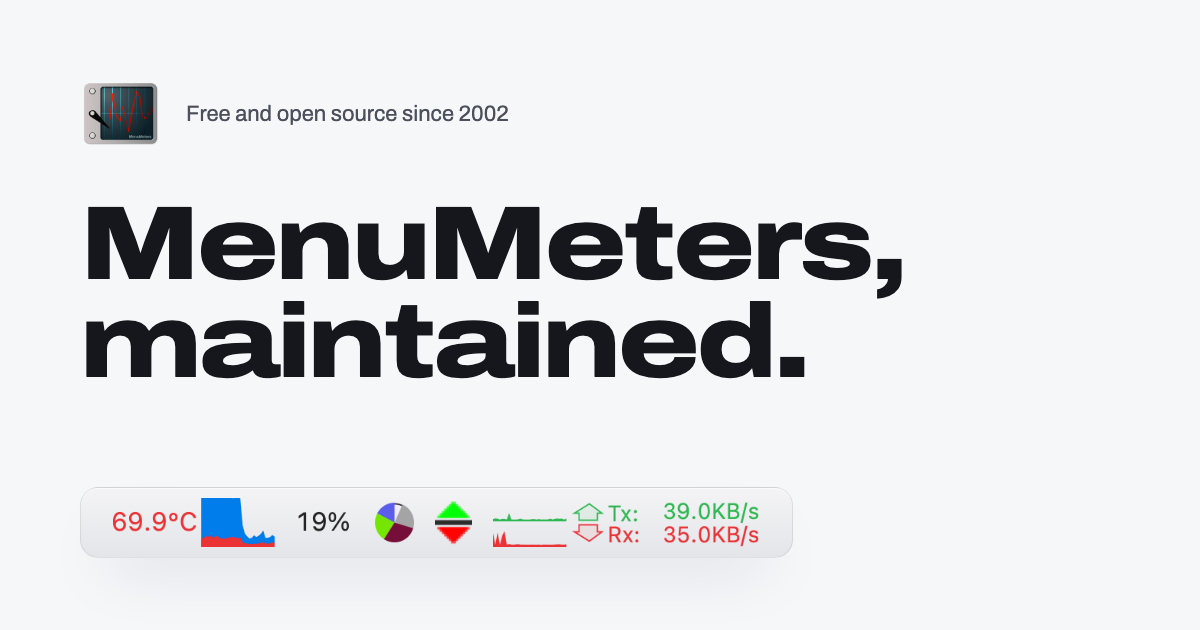
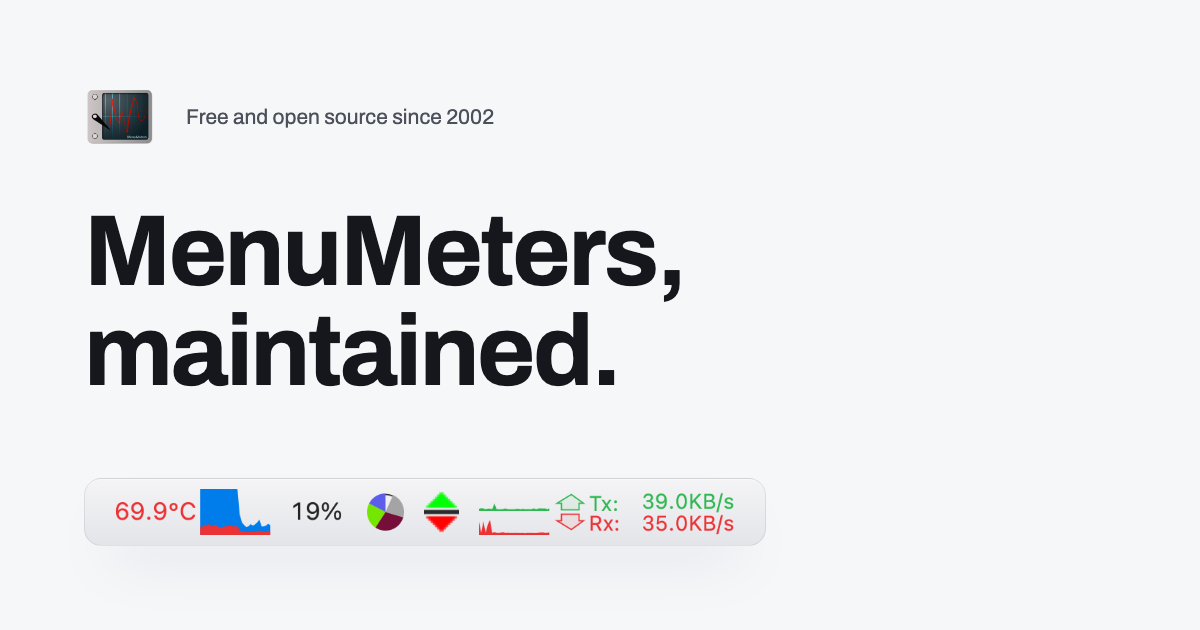
Calmer headings, and sign as NERv
Headings are set at the font's normal width, lighter and smaller.
The page no longer names the company behind the Developer ID or the
maintainer's legal name.

Changed region(s): [[0.0617, 0.3317, 0.7708, 0.6333], [0.0925, 0.754, 0.6475, 0.8746], [0.0617, 0.1206, 0.4317, 0.2413]]

diff --git a/index.html b/index.html
@@ -33,7 +33,7 @@
   "author": [
     { "@type": "Person", "name": "Alex Harper" },
     { "@type": "Person", "name": "Yuji Tachikawa" },
-    { "@type": "Person", "name": "Luca Gibelli" }
+    { "@type": "Person", "name": "NERv" }
   ]
 }
 </script>
@@ -72,7 +72,7 @@
       <a class="button" href="https://github.com/menumeters-osx/MenuMeters/releases/latest/download/MenuMeters-latest.dmg">Download MenuMeters 3.1.0</a>
       <a class="button button-quiet" href="https://github.com/menumeters-osx/MenuMeters">Source on GitHub</a>
     </div>
-    <p class="fineprint">Free. For macOS 26 Tahoe and later, on Apple silicon and Intel Macs. A 2.7&nbsp;MB disk image, signed by Stardata s.r.l. and notarized by Apple. Using an older macOS? <a href="#older-macos">Here’s what to get.</a></p>
+    <p class="fineprint">Free. For macOS 26 Tahoe and later, on Apple silicon and Intel Macs. A 2.7&nbsp;MB disk image, signed with a Developer ID and notarized by Apple. Using an older macOS? <a href="#older-macos">Here’s what to get.</a></p>
   </div>
 
   <figure class="loupe">
@@ -239,7 +239,7 @@
       <p>Like a lot of people, I kept MenuMeters running by hopping from fork to fork. A new macOS would come out, something would break, and the search would start again. Which fork builds? Which one has the patch for this release? Is the disk image on that page signed by anyone at all? The fixes were out there, but scattered across hundreds of repositories, in pull requests that waited for years.</p>
       <p>None of that is anyone’s fault, and I want to be clear about it. Alex Harper wrote MenuMeters and gave it away. Yuji Tachikawa kept it alive for more than a decade, in their own free time, for nothing. gonejack rewrote the whole thing in Swift. Dozens of people sent patches. I’m grateful to every one of them. Free time runs out, and nobody owes anyone a release.</p>
       <p>Still, an app this many people rely on deserves better care than that. So I’m putting my time where my mouth is: MenuMeters now has one home, one download, signed updates, and a maintainer who has signed up for the job.</p>
-      <p class="signature"><a href="https://github.com/lgibelli">Luca Gibelli</a><br>Maintainer</p>
+      <p class="signature"><strong>NERv</strong><br>Maintainer</p>
     </div>
   </div>
 </section>
@@ -274,7 +274,7 @@
     <div>
       <h2 id="trust-title">What’s in the box, and what isn’t</h2>
       <ul class="facts">
-        <li><strong>Signed and notarized.</strong> Every release is signed with the Developer ID of Stardata s.r.l. (team T4552AW4A5), runs with the hardened runtime, and is notarized by Apple.</li>
+        <li><strong>Signed and notarized.</strong> Every release is signed with the same Apple Developer ID (team T4552AW4A5), runs with the hardened runtime, and is notarized by Apple.</li>
         <li><strong>Signed updates.</strong> MenuMeters checks for updates once a day, using <a href="https://sparkle-project.org">Sparkle</a>, and asks before installing. It accepts an update only if the download is signed with the project’s update key and the app inside is signed by the same developer team.</li>
         <li><strong>Nothing about you leaves your Mac.</strong> The daily check downloads a small feed from salamacchine.it and sends only the app’s version, as <code>MenuMeters/3.1.0 Sparkle/2.10.1</code>. You can turn the check off in the About tab.</li>
         <li><strong>Open to inspection.</strong> All of the source is on GitHub, and the release build needs nothing but Apple’s Command Line Tools.</li>
@@ -364,7 +364,7 @@ spctl --assess --verbose \
 
 <footer class="footer">
   <div class="wrap footer-grid">
-    <p>MenuMeters is free software, released under the <a href="https://github.com/menumeters-osx/MenuMeters/blob/main/LICENSE">GNU General Public License, version 2</a>. Maintained by <a href="https://github.com/lgibelli">Luca Gibelli</a>.</p>
+    <p>MenuMeters is free software, released under the <a href="https://github.com/menumeters-osx/MenuMeters/blob/main/LICENSE">GNU General Public License, version 2</a>. Maintained by NERv.</p>
     <p>Not affiliated with Apple. macOS is a trademark of Apple Inc.</p>
     <nav class="footer-links" aria-label="Project">
       <a href="https://github.com/menumeters-osx/MenuMeters">Source</a>

diff --git a/assets/css/site.css b/assets/css/site.css
@@ -133,17 +133,15 @@ h1, h2, h3 {
 }
 
 h2 {
-  font-size: clamp(30px, 4.2vw, 46px);
-  font-stretch: 118%;
-  font-weight: 750;
-  line-height: 1.06;
+  font-size: clamp(28px, 3.4vw, 38px);
+  font-weight: 680;
+  line-height: 1.12;
   letter-spacing: -0.015em;
 }
 
 h3 {
   font-size: 22px;
-  font-stretch: 108%;
-  font-weight: 680;
+  font-weight: 640;
   line-height: 1.25;
 }
 
@@ -229,12 +227,11 @@ p { margin: 0 0 1em; }
 }
 
 .hero h1 {
-  font-size: clamp(46px, 8.4vw, 112px);
-  font-stretch: 125%;
-  font-weight: 820;
-  line-height: 0.94;
-  letter-spacing: -0.03em;
-  max-width: 11em;
+  font-size: clamp(40px, 6vw, 76px);
+  font-weight: 700;
+  line-height: 1.02;
+  letter-spacing: -0.025em;
+  max-width: 12em;
 }
 
 .lead {
@@ -326,7 +323,7 @@ p { margin: 0 0 1em; }
   border-top: 1px solid var(--rule);
   padding-top: 28px;
 }
-.meter h3 { font-size: 28px; font-stretch: 120%; font-weight: 760; }
+.meter h3 { font-size: 26px; font-weight: 680; }
 .meter > p { margin: 12px 0 28px; color: var(--ink-2); max-width: 32em; }
 
 .variants {
@@ -426,9 +423,8 @@ p { margin: 0 0 1em; }
 .timeline .when {
   margin: 0;
   padding-top: 2px;
-  font-size: 26px;
-  font-stretch: 125%;
-  font-weight: 760;
+  font-size: 24px;
+  font-weight: 680;
   color: var(--ink-3);
   font-variant-numeric: tabular-nums;
   text-align: right;
@@ -497,14 +493,11 @@ p { margin: 0 0 1em; }
   line-height: 1.4;
   color: var(--ink-3);
 }
-.letter-body .signature a {
+.letter-body .signature strong {
   font-size: 22px;
-  font-weight: 680;
-  font-stretch: 110%;
+  font-weight: 650;
   color: var(--ink);
-  text-decoration: none;
 }
-.letter-body .signature a:hover { text-decoration: underline; }
 
 /* The promise */
 
@@ -518,9 +511,8 @@ p { margin: 0 0 1em; }
 
 .promises > div { border-top: 2px solid var(--ink); padding-top: 22px; }
 .promises dt {
-  font-size: clamp(22px, 2.4vw, 27px);
-  font-stretch: 115%;
-  font-weight: 740;
+  font-size: clamp(21px, 2.2vw, 25px);
+  font-weight: 660;
   line-height: 1.2;
   text-wrap: balance;
 }
@@ -615,9 +607,8 @@ pre code { font-size: inherit; }
 }
 .steps li::before {
   content: counter(step);
-  font-size: 30px;
-  font-stretch: 125%;
-  font-weight: 780;
+  font-size: 28px;
+  font-weight: 700;
   color: var(--blue);
   line-height: 1;
 }
@@ -643,8 +634,7 @@ pre code { font-size: inherit; }
   gap: 24px;
   padding: 22px 0;
   font-size: 20px;
-  font-stretch: 106%;
-  font-weight: 620;
+  font-weight: 580;
 }
 .faq summary::-webkit-details-marker { display: none; }
 .faq summary::after {
@@ -689,8 +679,7 @@ pre code { font-size: inherit; }
   margin-bottom: 4px;
   font-family: var(--sans);
   font-size: 22px;
-  font-stretch: 112%;
-  font-weight: 720;
+  font-weight: 650;
   color: var(--ink);
 }
 
